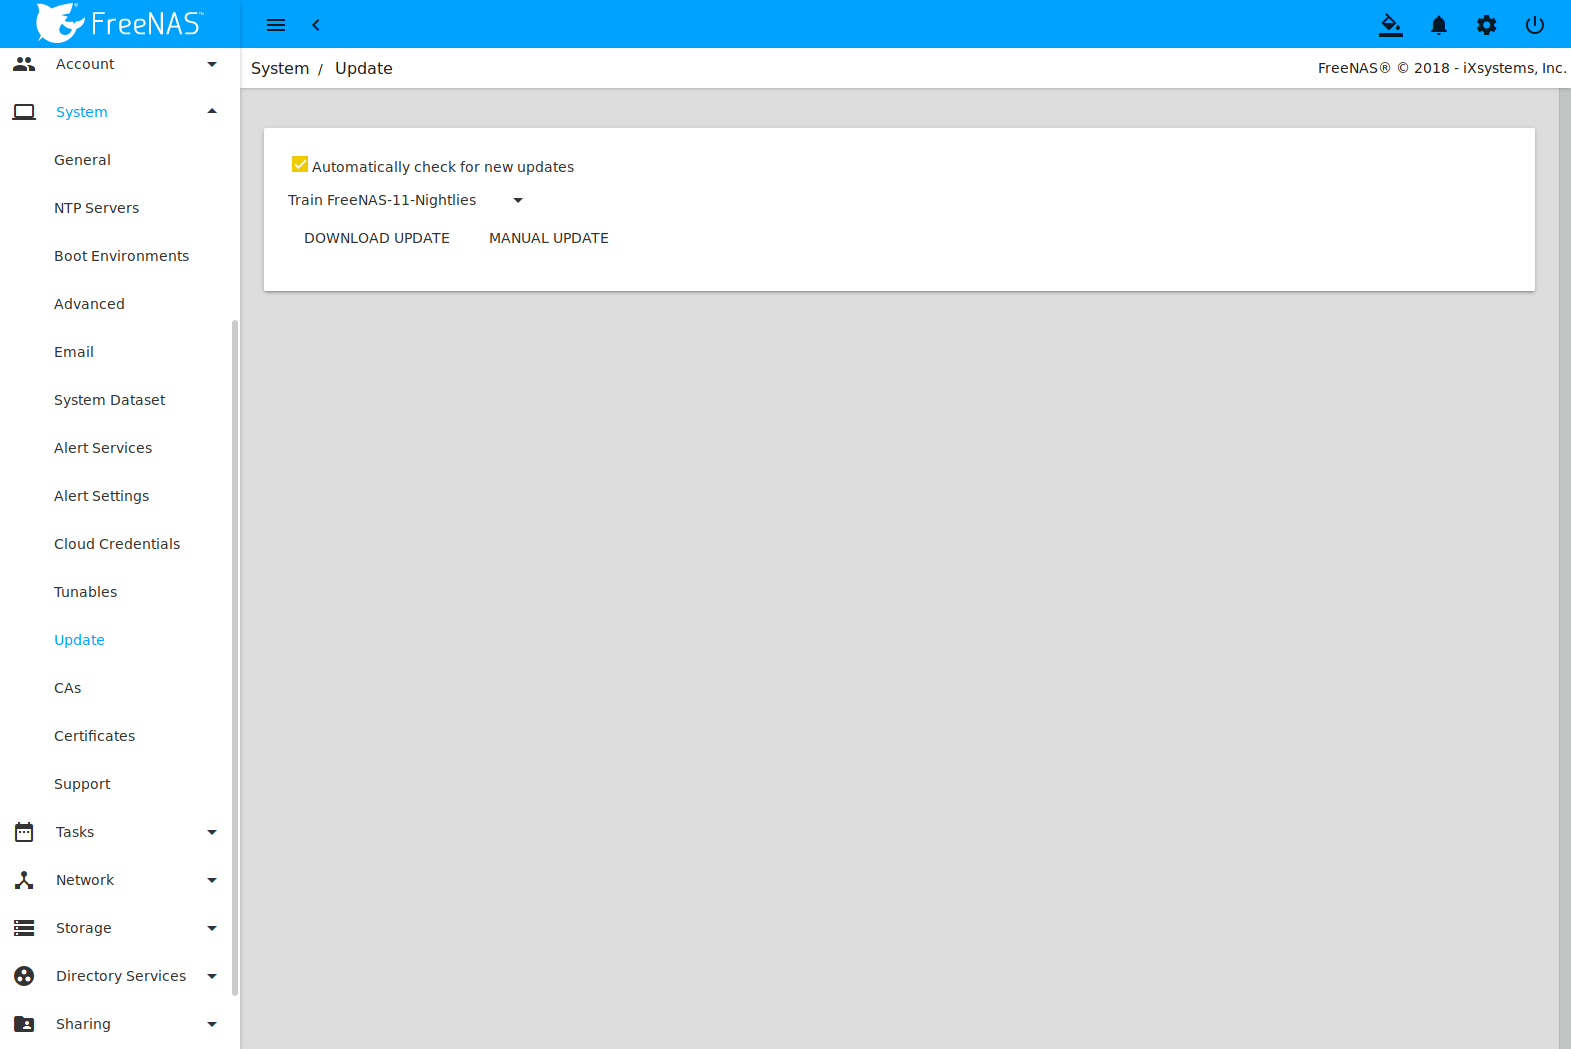
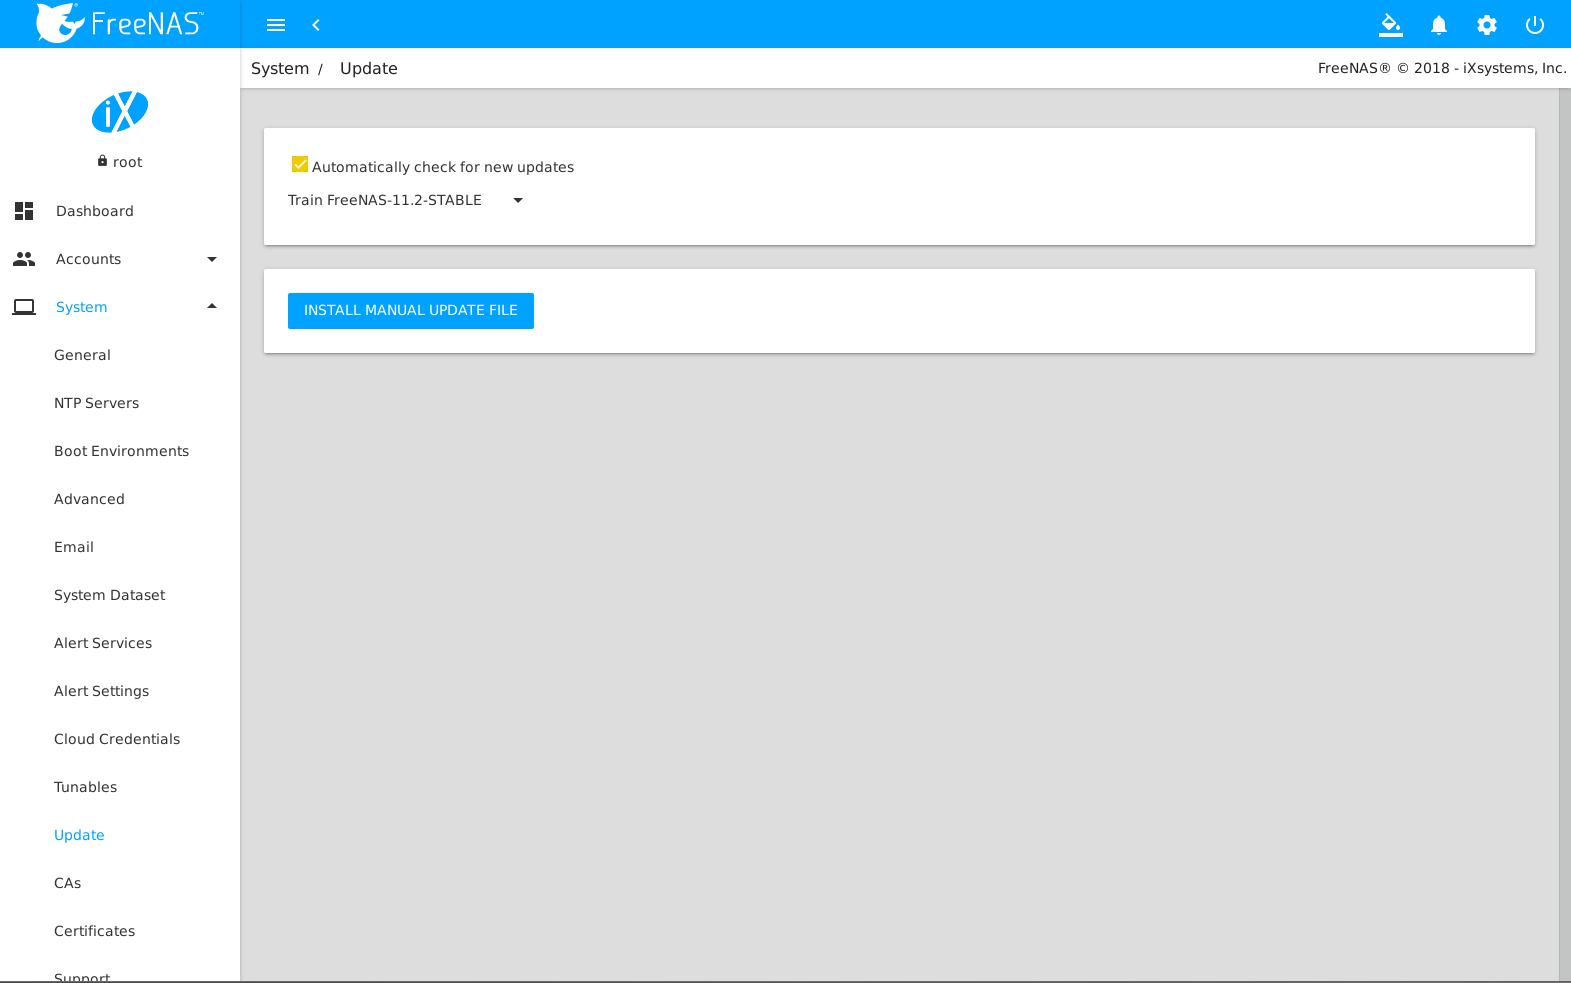
Doc changes to update screen in new UI. Ticket: #39977

diff --git a/userguide/system.rst b/userguide/system.rst
@@ -1578,40 +1578,14 @@ Updates and Trains
 %brand% uses signed update files. This provides flexibility in deciding
 when to upgrade the system with patches, new drivers, or new features.
 It also allows "test driving" an upcoming release. Combined with boot
-environments, new features or system patches can be tested while still
-being able to revert to a previous version of the operating system (see
-:ref:`If Something Goes Wrong`). Digitally signing update files
-eliminates the need to manually download both an upgrade file and the
+environments, new features or system patches can be tested while maintaining
+the ability to revert to a previous version of the operating system, using
+the instructions in :ref:`If Something Goes Wrong`. Digitally signed update
+files eliminate the need to manually download both an upgrade file and the
 associated checksum to verify file integrity.
 
-:numref:`Figure %s <update_options_fig>`
-shows an example of the
-:menuselection:`System --> Update`
-screen.
-
-
-.. _update_options_fig:
-
-#ifdef freenas
-.. figure:: images/system-update.png
-
-   Update Options
-#endif freenas
-#ifdef truenas
-.. figure:: images/truenas/system-update.png
-
-   Update Options
-#endif truenas
-
-
-By default, the system automatically checks for updates and issues an
-alert when a new update becomes available. The automatic check can be
-disabled by deselecting :guilabel:`Automatically check for new updates`.
-
-This screen shows which software branch, or *train*, is being tracked
-for updates.
-
-Several trains are available for updates.
+%brand% defines software branches, known as *trains*. Several trains are
+available for updates.
 
 .. caution:: **Only Production trains are recommended for regular
    usage.** Other trains are made available for pre-production testing
@@ -1643,15 +1617,10 @@ These trains are available:
   is the experimental branch for future versions and is meant only for
   testers and developers.
 
-
 * **FreeNAS-11-Nightlies-SDK: Do not use this train in production**.
   This train is meant only for developers. It is similar to
   *FreeNAS-11-Nightlies* but with extra development and debugging
   utilities added.
-
-* **FreeNAS-HEAD-Nightlies: Do not use this train in production**.
-  This train is meant only for developers and contains the source that
-  will eventually become %brand% version 12.
 
 **Legacy Versions**
 
@@ -1660,18 +1629,6 @@ These trains are available:
   Maintenance-only updates to the older version of %brand%. Upgrading
   to FreeNAS-11-STABLE is recommended to ensure that the system
   receives bug fixes and new features.
-
-
-To change the train, use the drop-down menu to make a different
-selection.
-
-.. note:: The train selector does not allow downgrades. For example,
-   the STABLE train cannot be selected while booted into a Nightly
-   boot environment, or a 9.10 train cannot be selected while booted
-   into a 11 boot environment. To go back to an earlier version
-   after testing or running a more recent version, reboot and select a
-   boot environment for that earlier version. This screen can then be
-   used to check for updates that train.
 
 
 #endif freenas
@@ -1702,27 +1659,52 @@ selection.
 Checking for Updates
 ~~~~~~~~~~~~~~~~~~~~
 
+:numref:`Figure %s <update_options_fig>`
+shows an example of the
+:menuselection:`System --> Update`
+screen.
+
+
+.. _update_options_fig:
+
 #ifdef freenas
-Check for updates by making sure the desired train is selected and
-clicking :guilabel:`DOWNLOAD UPDATE`.
+.. figure:: images/system-update.png
+
+   Update Options
+#endif freenas
+#ifdef truenas
+.. figure:: images/truenas/system-update.png
+
+   Update Options
+#endif truenas
+
+
+By default, the system automatically checks for updates and issues an
+alert when a new update becomes available. The automatic check can be
+disabled by deselecting :guilabel:`Automatically check for new updates`.
+
+To change the train, use the drop-down menu to make a different
+selection.
+
+.. note:: The train selector does not allow downgrades. For example,
+   the STABLE train cannot be selected while booted into a Nightly
+   boot environment, or a 9.10 train cannot be selected while booted
+   into a 11 boot environment. To go back to an earlier version
+   after testing or running a more recent version, reboot and select a
+   boot environment for that earlier version. This screen can then be
+   used to check for updates that train.
 
 In the example shown in
 :numref:`Figure %s <review_updates_fig>`, information about the update
-is displayed. This includes upgrades for different components of %brand%
-and a :guilabel:`Change log`:
+is displayed along with a link to the :guilabel:`release notes`. It is
+important to read the release notes before updating to determine if any
+of the changes in that release impact the use of the system.
 
 .. _review_updates_fig:
 
 .. figure:: images/system-update-review.png
 
    Reviewing Updates
-
-#endif freenas
-
-#ifdef truenas
-To see if any updates are available, click the :guilabel:`Check Now`
-button. Any available updates are listed.
-#endif truenas
 
 
 Applying Updates
@@ -1731,14 +1713,13 @@ Applying Updates
 Make sure the system is in a low-usage state as described above in
 :ref:`Preparing for Updates`.
 
-Click :guilabel:`APPLY PENDING UPDATE` when %brand% has automatically
-detected a new update. To manually check for and download a new update,
-click :guilabel:`DOWNLOAD UPDATE`.
+To initiate the update click :guilabel:`FETCH AND INSTALL UPDATES`.
 
 A confirmation window appears before the update is installed. Set
 :guilabel:`Apply updates and reboot system after downloading` and click
-:guilabel:`UPDATE` to download and apply the update. Be aware that
+:guilabel:`CONTINUE` to download and apply the update. Be aware that
 updates automatically reboot the system after they are applied.
+
 
 .. warning:: Each update creates a boot environment. If the update
    process needs more space, it attempts to remove old boot
@@ -1754,12 +1735,11 @@ updates automatically reboot the system after they are applied.
 Manual Updates
 ~~~~~~~~~~~~~~
 
-Updates can be manually downloaded as a file. These updates are then
-applied with the :guilabel:`MANUAL UPDATE` button. After obtaining the
-update file, click :guilabel:`MANUAL UPDATE` and choose a location to
-temporarily store the file on the %brand% system. Click
-:guilabel:`Browse` and use the file browser to locate the update file.
-Click :guilabel:`APPLY UPDATE` to apply it.
+Alternately, updates can be manually downloaded then applied using the
+:guilabel:`INSTALL MANUAL UPDATE FILE` button. Selecting this option
+prompts to choose a location to temporarily store the file on the %brand%
+system, a :guilabel:`Browse` button to navigate to the downloaded file,
+and an :guilabel:`APPLY UPDATE` button to initiate the manual update.
 
 Manual update files can be identified by their filenames, which end in
 :file:`-manual-update-unsigned.tar`.
